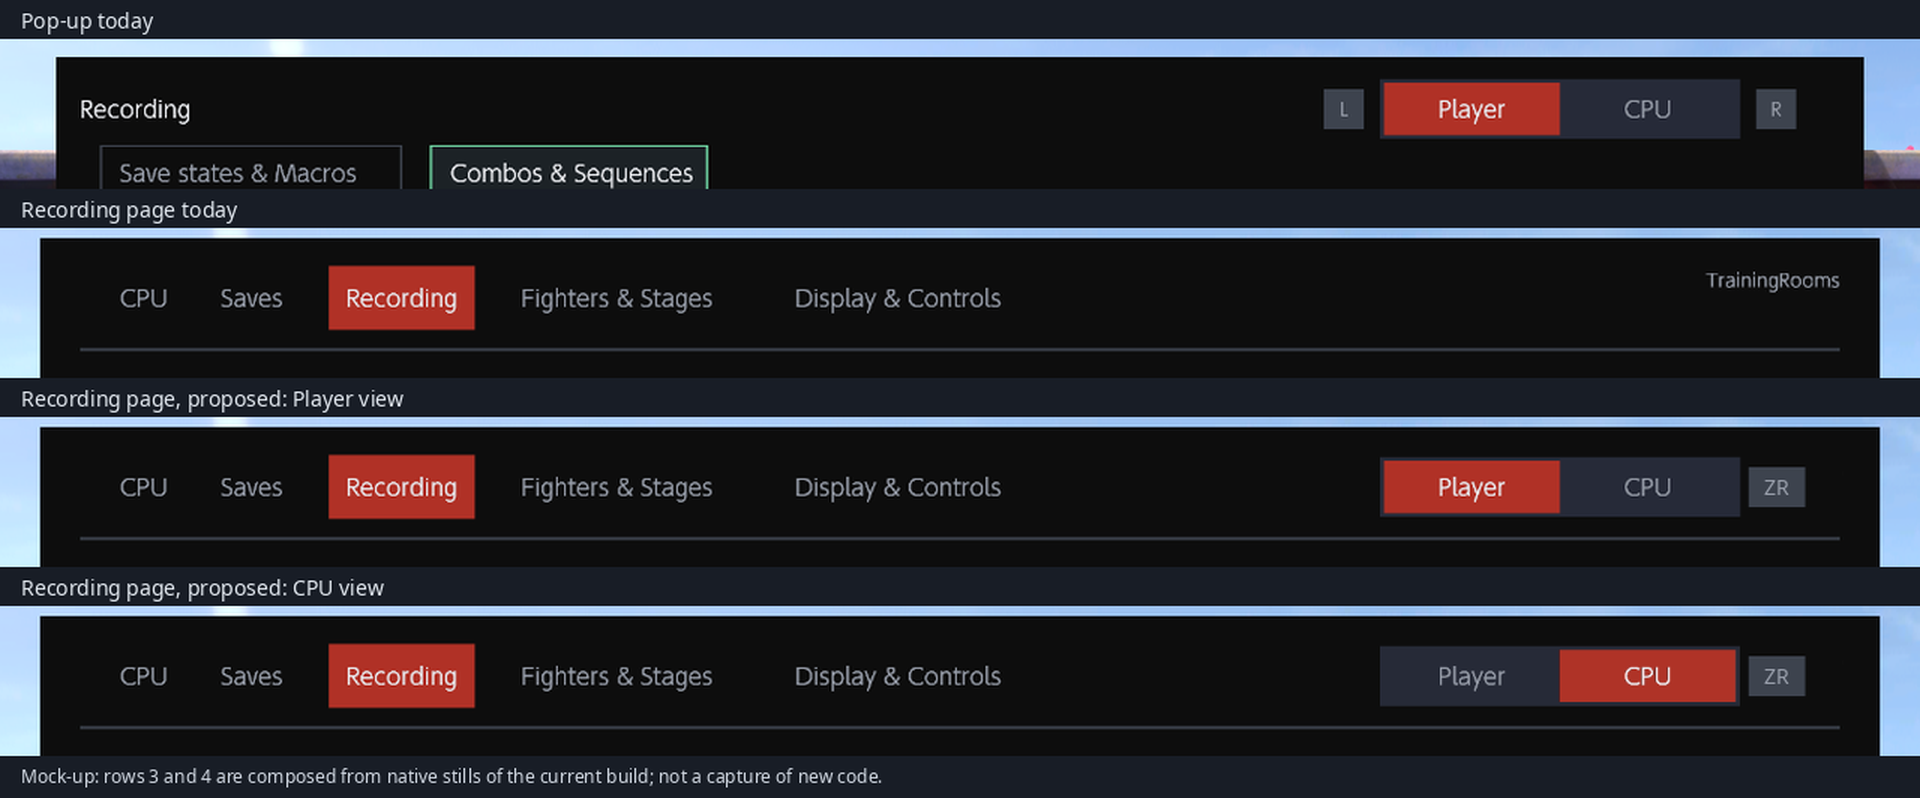
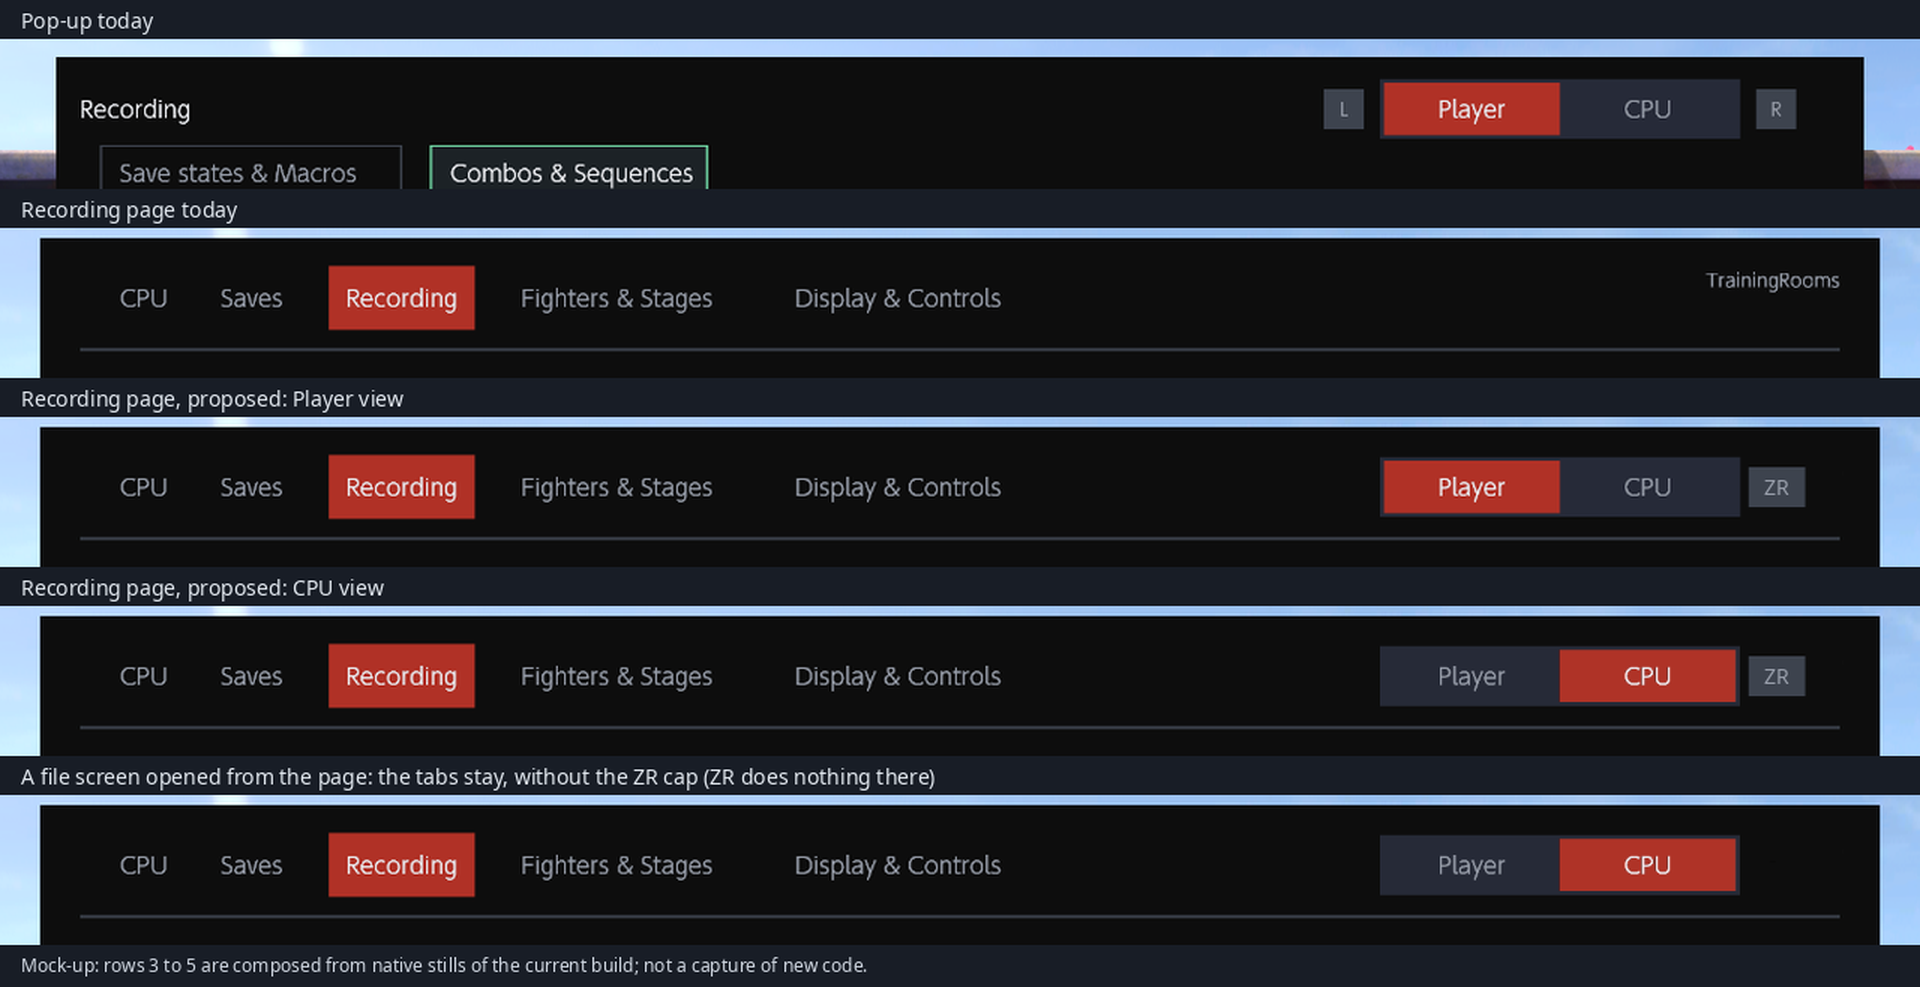
Review: Recording role, RR1-RR3 as decided; no ZR cap on a file screen
RR1 and RR2 agreed, RR3 changed to keep the roles on the card. The picture
gains a fifth row: a file screen opened from the page keeps the tabs and
shows no ZR cap, because ZR does nothing there (review 19:52:25Z).

diff --git a/docs/review/recording-role.md b/docs/review/recording-role.md
@@ -1,31 +1,32 @@
 # Recording: which role you are on (page and pop-up)
 
-**Pending, 2026-11-22.** Three decisions, one picture. RR1 changes the look; RR2 and RR3 are about the role memory you asked for.
-Mock-up, not an Eden still (preview-vis-sol, source `aad616bc`, branch `rc15/recording-menu-mix`). Nothing on this page is implemented yet.
+**Decided, 2026-11-22.** RR1 and RR2 agreed as written; RR3 changed to "keep it on the card". The picture is corrected for
+one point the review found: the ZR key cap was shown on a file's own screen, where ZR does nothing.
+Mock-up, not an Eden still (preview-vis-sol, source `aad616bc`, branch `rc15/recording-menu-mix`). Built in commits
+`cfa25884` (RR1, RR2) and `45553a3a` (RR3); the Eden proof is still to come.
 
 Your words: "in recording on the menu when you change roles it's not clear what role you're on. we should make it clear like we do in the pop up." and "when you bring up the recording dialogue menu with ZR+D-Right it should remember which role you had picked before vs always restarting on p1."
 
-## RR1: the Recording page shows the pop-up's role tabs (default: as pictured)
+## RR1: the Recording page shows the pop-up's role tabs (agreed)
 
 - The page gets the same plate as the pop-up, in the same place on the top line: "Player" and "CPU", the current one lit red.
 - One key cap, **ZR**, to the right of the plate. ZR already changes the role on the page; L and R change the menu page there, so they cannot be the role buttons as in the pop-up.
+- **Corrected:** the ZR cap is drawn only where ZR changes the role. On a file's own screen, a picker or the keyboard opened from the page, the tabs stay and the cap is not drawn (row 5).
 - The small "TrainingRooms" label at the top right is not drawn on the Recording page, as in the pop-up. It stays on the other pages.
-- The tabs show on the whole Recording page, and on a file's own screen opened from it.
 - Nothing else on the page changes.
 
 ![The Recording page with the pop-up's role tabs](recording-role/recording-role-proposal.png)
 
-Rows 1 and 2 are the build you have. Rows 3 and 4 are composed from native stills; the "ZR" cap is drawn in.
+Rows 1 and 2 are the build you have. Rows 3 to 5 are composed from native stills; the "ZR" cap is drawn in.
 
-## RR2: the page and the pop-up each keep their own role (default: two roles)
+## RR2: the page and the pop-up each keep their own role (agreed: two roles)
 
-- **Pop-up role:** who Record captures and whose macros and loops the pop-up lists. This is what you asked to be remembered.
-- **Page role (ZR):** whose files the page lists. It is remembered the same way.
-- They stay separate, as today. With one shared role, pressing ZR on the page would also change who the pop-up records next time.
-- The other option: **one shared role** for both. Say so if you prefer it.
+- **Pop-up role:** who Record captures and whose macros and loops the pop-up lists.
+- **Page role (ZR):** whose files the page lists.
+- They stay separate, as today. Both are remembered, each on its own.
 
-## RR3: how long the role is remembered (default: until the game is closed)
+## RR3: how long the role is remembered (changed: kept on the card)
 
-- The same as the menu's "reopen where you left": through closing the menu, a Training reset and leaving Training.
-- After the game is closed and started again, both start on Player. Nothing is written to the card.
-- The other option: **keep it on the card**, so it also survives a restart.
+- Both roles are saved in `settings.json` on the card as soon as you change them, so they survive closing the menu, a
+  Training reset, leaving Training, and closing and starting the game again.
+- A `settings.json` from an older build has no saved role: both start on Player, and nothing else in the file changes.
